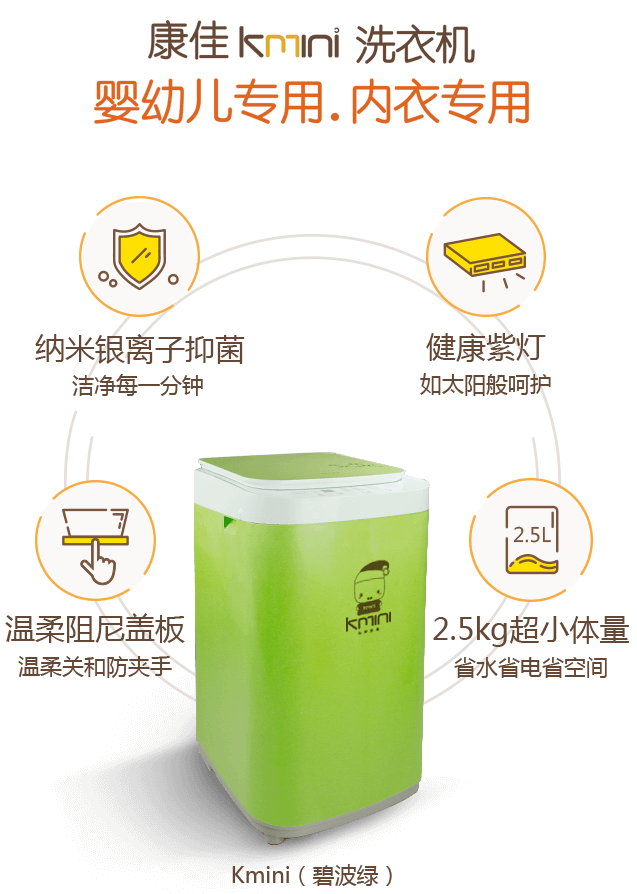
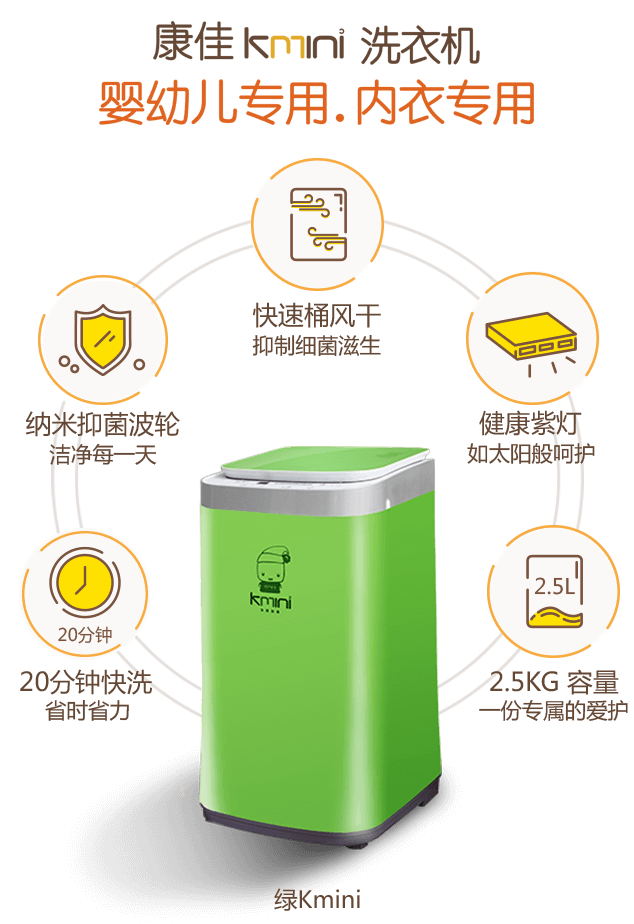
up

Changed region(s): [[0.0, 0.0, 0.989, 0.9966], [0.8991, 0.302, 0.929, 0.3322]]

diff --git a/src/konka_washer/css/konka_washer.less b/src/konka_washer/css/konka_washer.less
@@ -82,7 +82,11 @@ html,body{
                 .main-info{
                     position: relative;
                     width: 100%;
-                    height: auto;
+                    height: 65%;
+                    text-align: center;
+                    margin-top: -7%;
+                    background: url("../img/main/main-info.png") center center no-repeat;
+                    background-size: auto 100%;
 
                     .main-info-btn{
                         display: inline-block;
@@ -94,7 +98,7 @@ html,body{
 
                         .left-info-btn{
                             position: absolute;
-                            width:33.3%;
+                            width:36.3%;
                             height:81%;
                             left:0;
                             top:0;
@@ -102,9 +106,9 @@ html,body{
 
                         .center-info-btn{
                             position: absolute;
-                            width:36.3%;
+                            width:28%;
                             height:81%;
-                            left:33.3%;
+                            left:36.3%;
                             top:0
                         }
 
@@ -112,15 +116,14 @@ html,body{
                             position: absolute;
                             width:30.7%;
                             height:81%;
-                            left:69.6%;
+                            left:63.6%;
                             top:0;
                         }
                     }
 
                     img{
-                        margin-top: -11%;
-                        width: 100%;
-                        height: auto;
+                        width: auto;
+                        height: 100%;
                     }
 
                     .main-clickme-btn{
@@ -128,8 +131,8 @@ html,body{
                         height: 2.3rem;
                         display: inline-block;
                         position: absolute;
-                        top: 28.7%;
-                        right: 20.4%;
+                        top: 31.5%;
+                        right: 21.4%;
                         background: url("../img/main/main-clickme.png") center center no-repeat;
                         background-size: 100% auto;
                     }
@@ -1180,15 +1183,15 @@ html,body{
                         }
                         .info-green{
                             background: url("../img/info/info-green.png") center 30% no-repeat;
-                            background-size: 90% auto;
+                            background-size:  auto 75%;
                         }
                         .info-red{
                             background: url("../img/info/info-pink.png") center 30% no-repeat;
-                            background-size: 90% auto;
+                            background-size:  auto 75%;
                         }
                         .info-yellow{
                             background: url("../img/info/info-yellow.png") center 30% no-repeat;
-                            background-size: 90% auto;
+                            background-size:  auto 75%;
                         }
 
                     }

diff --git a/src/konka_washer/css/konka_washer.css b/src/konka_washer/css/konka_washer.css
@@ -78,7 +78,11 @@ html #screen .swiper-wrapper #main .main-info,
 body #screen .swiper-wrapper #main .main-info {
   position: relative;
   width: 100%;
-  height: auto;
+  height: 65%;
+  text-align: center;
+  margin-top: -7%;
+  background: url("../img/main/main-info.png") center center no-repeat;
+  background-size: auto 100%;
 }
 html #screen .swiper-wrapper #main .main-info .main-info-btn,
 body #screen .swiper-wrapper #main .main-info .main-info-btn {
@@ -92,7 +96,7 @@ body #screen .swiper-wrapper #main .main-info .main-info-btn {
 html #screen .swiper-wrapper #main .main-info .main-info-btn .left-info-btn,
 body #screen .swiper-wrapper #main .main-info .main-info-btn .left-info-btn {
   position: absolute;
-  width: 33.3%;
+  width: 36.3%;
   height: 81%;
   left: 0;
   top: 0;
@@ -100,9 +104,9 @@ body #screen .swiper-wrapper #main .main-info .main-info-btn .left-info-btn {
 html #screen .swiper-wrapper #main .main-info .main-info-btn .center-info-btn,
 body #screen .swiper-wrapper #main .main-info .main-info-btn .center-info-btn {
   position: absolute;
-  width: 36.3%;
+  width: 28%;
   height: 81%;
-  left: 33.3%;
+  left: 36.3%;
   top: 0;
 }
 html #screen .swiper-wrapper #main .main-info .main-info-btn .right-info-btn,
@@ -110,14 +114,13 @@ body #screen .swiper-wrapper #main .main-info .main-info-btn .right-info-btn {
   position: absolute;
   width: 30.7%;
   height: 81%;
-  left: 69.6%;
+  left: 63.6%;
   top: 0;
 }
 html #screen .swiper-wrapper #main .main-info img,
 body #screen .swiper-wrapper #main .main-info img {
-  margin-top: -11%;
-  width: 100%;
-  height: auto;
+  width: auto;
+  height: 100%;
 }
 html #screen .swiper-wrapper #main .main-info .main-clickme-btn,
 body #screen .swiper-wrapper #main .main-info .main-clickme-btn {
@@ -125,8 +128,8 @@ body #screen .swiper-wrapper #main .main-info .main-clickme-btn {
   height: 2.3rem;
   display: inline-block;
   position: absolute;
-  top: 28.7%;
-  right: 20.4%;
+  top: 31.5%;
+  right: 21.4%;
   background: url("../img/main/main-clickme.png") center center no-repeat;
   background-size: 100% auto;
 }
@@ -1124,17 +1127,17 @@ body #screen .swiper-wrapper #info .swiper-container .swiper-wrapper .swiper-sli
 html #screen .swiper-wrapper #info .swiper-container .swiper-wrapper .info-green,
 body #screen .swiper-wrapper #info .swiper-container .swiper-wrapper .info-green {
   background: url("../img/info/info-green.png") center 30% no-repeat;
-  background-size: 90% auto;
+  background-size: auto 75%;
 }
 html #screen .swiper-wrapper #info .swiper-container .swiper-wrapper .info-red,
 body #screen .swiper-wrapper #info .swiper-container .swiper-wrapper .info-red {
   background: url("../img/info/info-pink.png") center 30% no-repeat;
-  background-size: 90% auto;
+  background-size: auto 75%;
 }
 html #screen .swiper-wrapper #info .swiper-container .swiper-wrapper .info-yellow,
 body #screen .swiper-wrapper #info .swiper-container .swiper-wrapper .info-yellow {
   background: url("../img/info/info-yellow.png") center 30% no-repeat;
-  background-size: 90% auto;
+  background-size: auto 75%;
 }
 html #screen .swiper-wrapper #info .swiper-button-next,
 body #screen .swiper-wrapper #info .swiper-button-next {

diff --git a/src/konka_washer/js/es6/konka_washer.js b/src/konka_washer/js/es6/konka_washer.js
@@ -821,9 +821,8 @@ define(['wx', 'base/env', 'base/wechat/wx_pay', 'base/wechat/wx', 'base/util', '
             // 开发
             // setTimeout(() => {
             //     audioDom.pause();
-            //     screenSwiper.slideTo(SCREEN_SWIPER_INDEX.try_form);
-            // }, 800)
-            // $('#pay_succcess_overlay').fadeIn();
+            //     screenSwiper.slideTo(SCREEN_SWIPER_INDEX.main);
+            // }, 200)
 
         });
 

diff --git a/src/konka_washer/js/konka_washer.js b/src/konka_washer/js/konka_washer.js
@@ -681,8 +681,7 @@ define(['wx', 'base/env', 'base/wechat/wx_pay', 'base/wechat/wx', 'base/util', '
         // 开发
         // setTimeout(() => {
         //     audioDom.pause();
-        //     screenSwiper.slideTo(SCREEN_SWIPER_INDEX.try_form);
-        // }, 800)
-        // $('#pay_succcess_overlay').fadeIn();
+        //     screenSwiper.slideTo(SCREEN_SWIPER_INDEX.main);
+        // }, 200)
     });
 });

diff --git a/src/konka_washer/index.html b/src/konka_washer/index.html
@@ -69,7 +69,7 @@
                     <strong class="center-info-btn"></strong>
                     <strong class="right-info-btn"></strong>
                 </i>
-                <img src="./img/main/main-info.png" />
+                <!--<img src="./img/main/main-info.png" />-->
                 <i class="main-clickme-btn wobble animated infinite"></i>
             </div>
             <div class="main-percent">
